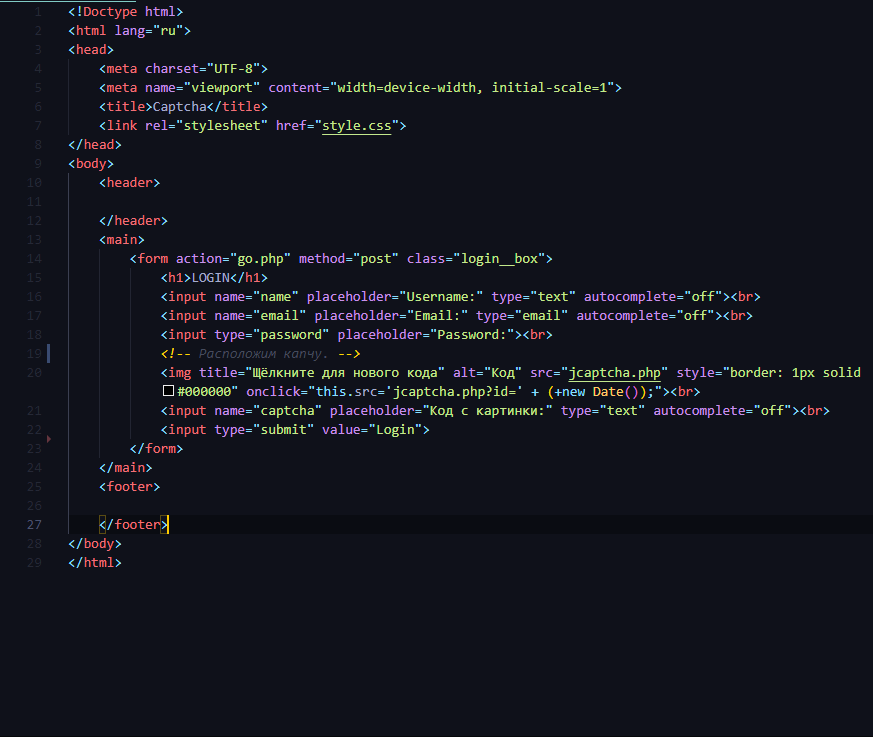
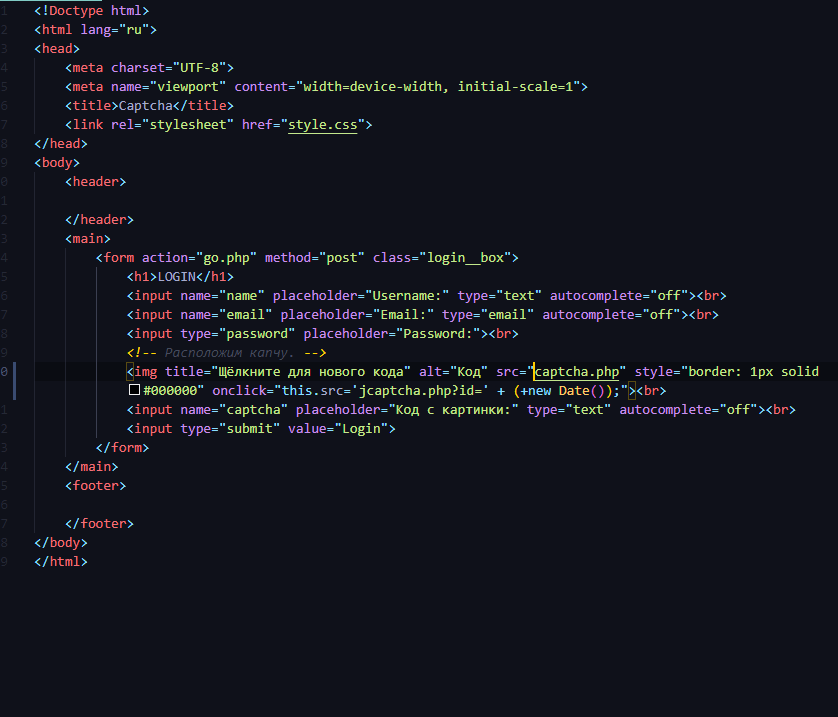
Остановился на размещении на хостинге

Changed region(s): [[0.0, 0.0, 0.9928, 0.7978], [0.0, 0.4909, 0.031, 0.5523]]

diff --git a/captcha/index.html b/captcha/index.html
@@ -17,7 +17,7 @@
 			<input name="email" placeholder="Email:" type="email" autocomplete="off"><br>
 			<input type="password" placeholder="Password:"><br>
 			<!-- Расположим капчу. -->
-			<img title="Щёлкните для нового кода" alt="Код" src="jcaptcha.php" style="border: 1px solid #000000" onclick="this.src='jcaptcha.php?id=' + (+new Date());"><br>
+			<img title="Щёлкните для нового кода" alt="Код" src="captcha.php" style="border: 1px solid #000000" onclick="this.src='jcaptcha.php?id=' + (+new Date());"><br>
 			<input name="captcha" placeholder="Код с картинки:" type="text" autocomplete="off"><br>
 			<input type="submit" value="Login">
 		</form>

diff --git a/captcha/style.css b/captcha/style.css
@@ -3,7 +3,8 @@ html {
 }
 body {
     font-family: sans-serif;
-    background: linear-gradient(-50deg, #970d1a, #4e204d);
+    background: linear-gradient(-50deg, #4e0606, #4e204d);
+    /* background: #505050; */
     height: 100%;
     display: flex;
     justify-content: center;
@@ -16,9 +17,10 @@ body {
     width: 300px;
     padding: 40px;
     /* transform: translate(-50%, -50%); */
-    background: #191919;
+    /* background: #191919; */
     text-align: center;
-    background: linear-gradient(-50deg, #970d1a, #4e204d);
+    background: linear-gradient(-50deg, #4e0606, #4e204d);
+    /* background: #606060; */
     box-shadow: 0 0 10px rgba(0,0,0,0.5);
     border-radius: 5px;
 }
